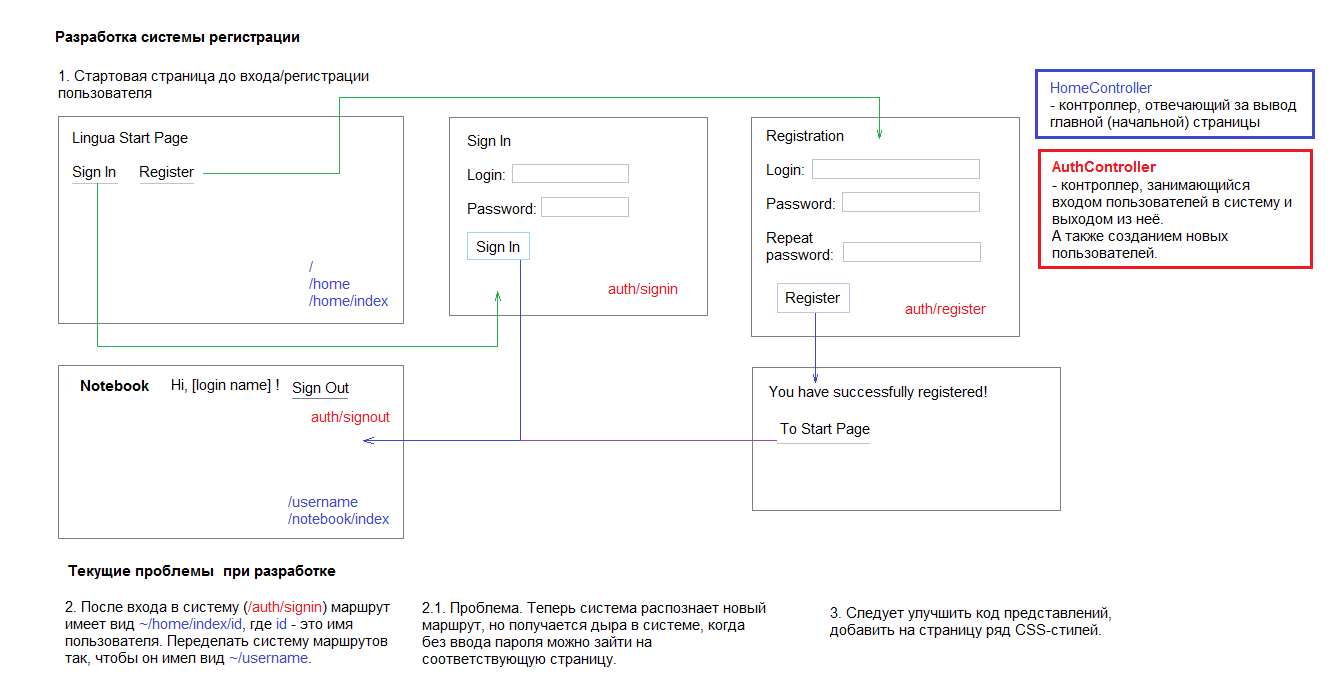
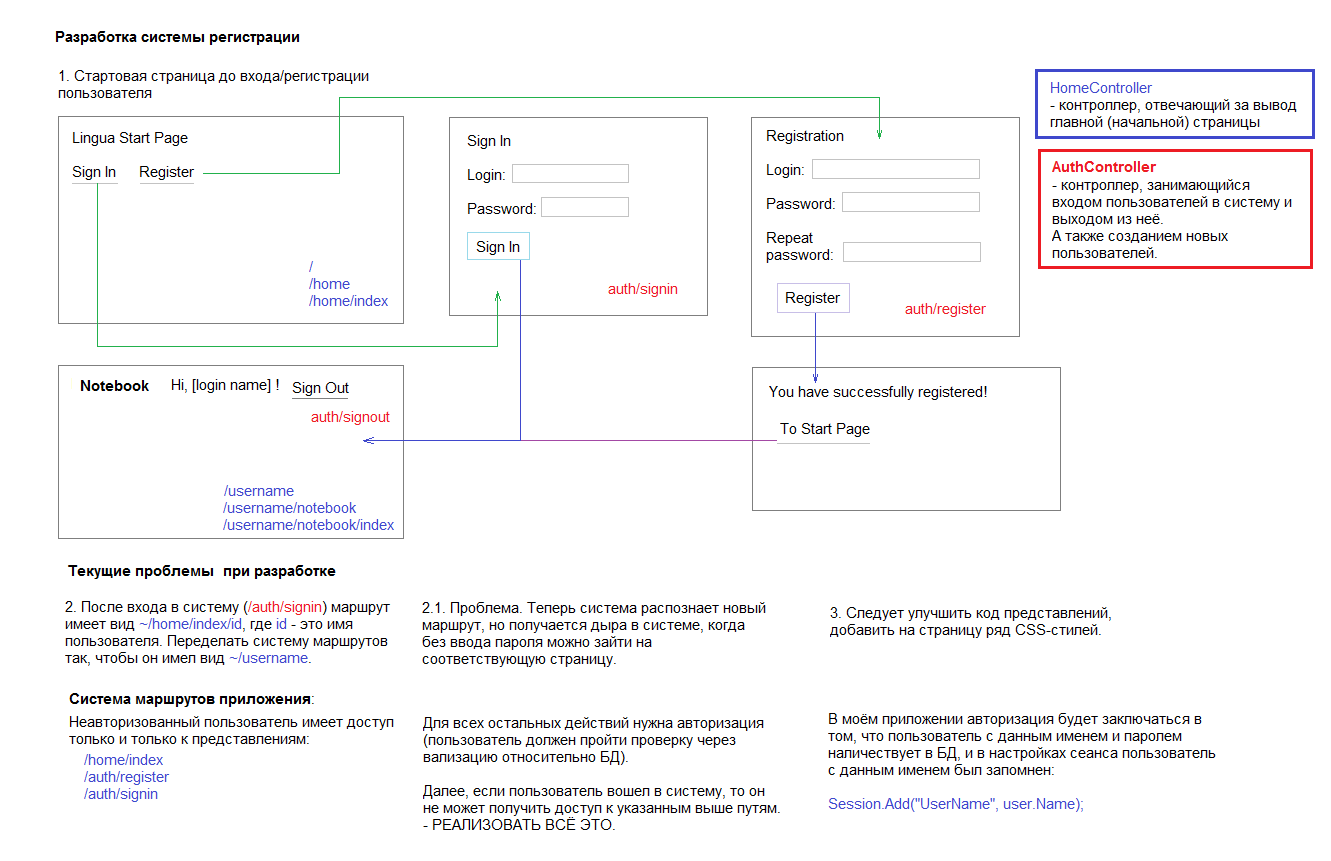
Membership and authorization kinda finished but need to test it more

diff --git a/BigLinguaProject.UI/Controllers/AuthController.cs b/BigLinguaProject.UI/Controllers/AuthController.cs
@@ -1,6 +1,7 @@
 using System;
 using System.Web.Mvc;
 
+using BigLinguaProject.UI.Attributes;
 using BigLinguaProject.UI.Services;
 using BigLinguaProject.UI.ViewModels;
 
@@ -8,6 +9,7 @@ namespace BigLinguaProject.UI.Controllers {
     public class AuthController : Controller {
         private AuthService authService = new AuthService();
 
+        [UnauthorizedUsersOnly]
         public ActionResult Register() {
             return View(new RegisterViewModel());
         }
@@ -17,10 +19,12 @@ namespace BigLinguaProject.UI.Controllers {
             if (!authService.IsRegisterActionViewModelValid(userViewModel, ModelState)) {
                 return View(userViewModel);
             }
-            var resultModel = authService.GetRegisterActionViewModel(userViewModel); 
+            var resultModel = authService.GetRegisterActionViewModel(userViewModel);
+            CreateSession(userViewModel.Name);
             return View("success", null, resultModel);
         }
 
+        [UnauthorizedUsersOnly]
         public ActionResult SignIn() {
             return View(new SignInViewModel());
         }
@@ -35,6 +39,7 @@ namespace BigLinguaProject.UI.Controllers {
             }
 
             authService.SignIn(viewModel.Name);
+            CreateSession(viewModel.Name);
 
             if (isValidReturnUrl) {
                 return Redirect(returnUrl);
@@ -44,7 +49,16 @@ namespace BigLinguaProject.UI.Controllers {
 
         public ActionResult SignOut(String defaultAction = "Index", String defaultController = "Home") {
             authService.SignOut();
+            RemoveSession();
             return RedirectToAction(defaultAction, defaultController);
+        }
+
+        private void CreateSession(String username) {
+            Session.Add("username", username);
+        }
+
+        private void RemoveSession() {
+            Session.RemoveAll();
         }
 
         private Boolean IsValidReturnUrl(String returnUrl) {

diff --git a/BigLinguaProject.UI/Attributes/AuthorizedUsersOnly.cs b/BigLinguaProject.UI/Attributes/AuthorizedUsersOnly.cs
@@ -1,0 +1,25 @@
+using System;
+using System.Web.Mvc;
+using System.Web.Routing;
+
+namespace BigLinguaProject.UI.Attributes {
+    [AttributeUsage(AttributeTargets.Method)]
+    public class AuthorizedUsersOnlyAttribute : FilterAttribute, IAuthorizationFilter {
+        public void OnAuthorization(AuthorizationContext filterContext) {
+            // Here we need to check if the user is authorized
+            if (filterContext.HttpContext.Session == null) {
+                filterContext.Result = new HttpUnauthorizedResult();
+                return;
+            }                
+
+            String sessionUserName = (String)filterContext.HttpContext.Session["username"];
+            if (sessionUserName == null) {
+                filterContext.Result = new HttpUnauthorizedResult();
+            } else if (sessionUserName != (filterContext.RouteData.Values["username"] as String)) {
+                filterContext.Result = new RedirectToRouteResult(
+                    new RouteValueDictionary(new { username = sessionUserName })
+                );
+            }
+        }
+    }
+}

diff --git a/BigLinguaProject.UI/Attributes/UnauthorizedUsersOnly.cs b/BigLinguaProject.UI/Attributes/UnauthorizedUsersOnly.cs
@@ -1,0 +1,21 @@
+using System;
+using System.Web.Mvc;
+using System.Web.Routing;
+
+namespace BigLinguaProject.UI.Attributes {
+    [AttributeUsage(AttributeTargets.Method)]
+    public class UnauthorizedUsersOnlyAttribute : FilterAttribute, IAuthorizationFilter {
+        public void OnAuthorization(AuthorizationContext filterContext) {
+            // Here we need to check if the user is authorized
+            if (filterContext.HttpContext.Session == null)
+                return;
+
+            String sessionUserName = (String)filterContext.HttpContext.Session["username"];
+            if (sessionUserName != null) {
+                filterContext.Result = new RedirectToRouteResult(
+                    new RouteValueDictionary(new { username = sessionUserName })
+                );
+            }
+        }
+    }
+}

diff --git a/BigLinguaProject.UI/Controllers/NotebookController.cs b/BigLinguaProject.UI/Controllers/NotebookController.cs
@@ -2,11 +2,17 @@
 using System.Web;
 using System.Web.Mvc;
 
+using BigLinguaProject.UI.Attributes;
+using BigLinguaProject.UI.ViewModels;
+
 namespace BigLinguaProject.UI.Controllers {
     public class NotebookController : Controller {
-        [Authorize]
+        [AuthorizedUsersOnly]
         public ActionResult Index() {
-            return View();
+            var viewModel = new NotebookIndexViewModel { 
+                UserName = Session["username"] as String
+            };
+            return View(viewModel);
         }
     }
 }

diff --git a/BigLinguaProject.UI/Services/AuthService.cs b/BigLinguaProject.UI/Services/AuthService.cs
@@ -1,5 +1,6 @@
 using System;
 using System.Linq;
+using System.Web;
 using System.Web.Mvc;
 using System.Web.Security;
 
@@ -32,7 +33,7 @@ namespace BigLinguaProject.UI.Services {
             dbContext.Users.Add(user);
             dbContext.SaveChanges();
             // Теперь нужно авторизовать данного пользователя
-            FormsAuthentication.SetAuthCookie(user.Name, false);
+            SignIn(user.Name);
             return user.Name;
         }
 

diff --git a/BigLinguaProject.UI/App_Start/RouteConfig.cs b/BigLinguaProject.UI/App_Start/RouteConfig.cs
@@ -11,8 +11,8 @@ namespace BigLinguaProject.UI {
             routes.IgnoreRoute("{resource}.axd/{*pathInfo}");
 
             routes.MapRoute(
-                name: "forAuthenticatedUsers",
-                url: "{id}",
+                name: "forAuthorizedUsers",
+                url: "{username}",
                 defaults: new { controller="notebook", action="index" }
             );
 

diff --git a/BigLinguaProject.UI/Controllers/HomeController.cs b/BigLinguaProject.UI/Controllers/HomeController.cs
@@ -1,7 +1,10 @@
 using System.Web.Mvc;
 
+using BigLinguaProject.UI.Attributes;
+
 namespace BigLinguaProject.UI.Controllers {
     public class HomeController : Controller {
+        [UnauthorizedUsersOnly]
         public ActionResult Index() {
             return View();
         }

diff --git a/BigLinguaProject.UI/ViewModels/NotebookIndexViewModel.cs b/BigLinguaProject.UI/ViewModels/NotebookIndexViewModel.cs
@@ -1,0 +1,10 @@
+using System;
+using System.Collections.Generic;
+using System.Linq;
+using System.Web;
+
+namespace BigLinguaProject.UI.ViewModels {
+    public class NotebookIndexViewModel {
+        public String UserName { get; set; }
+    }
+}
